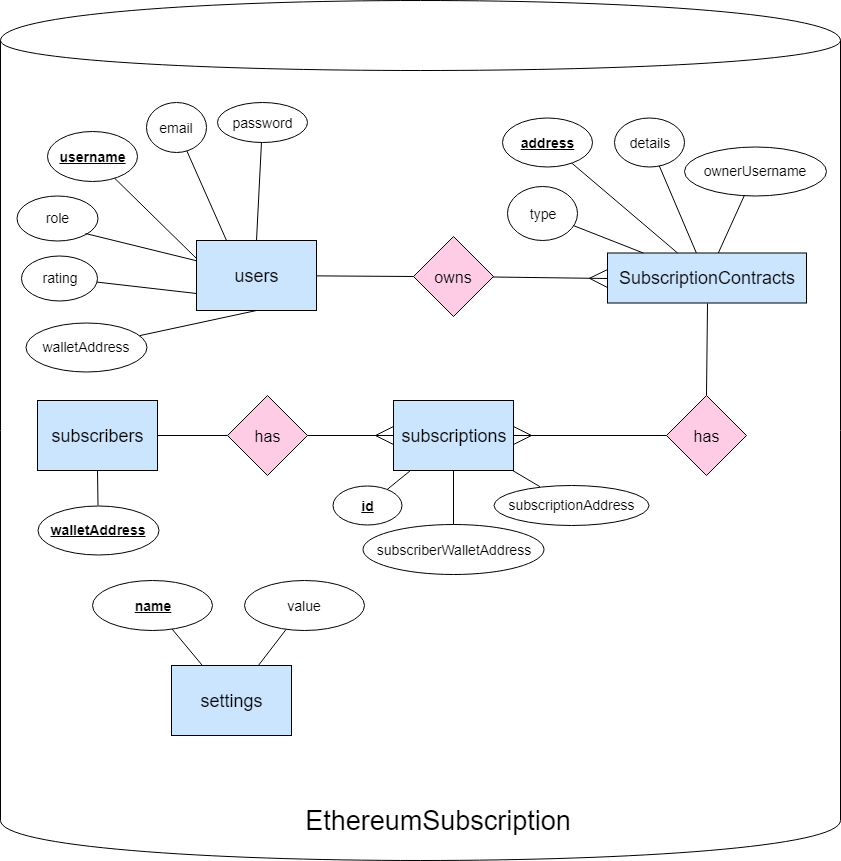
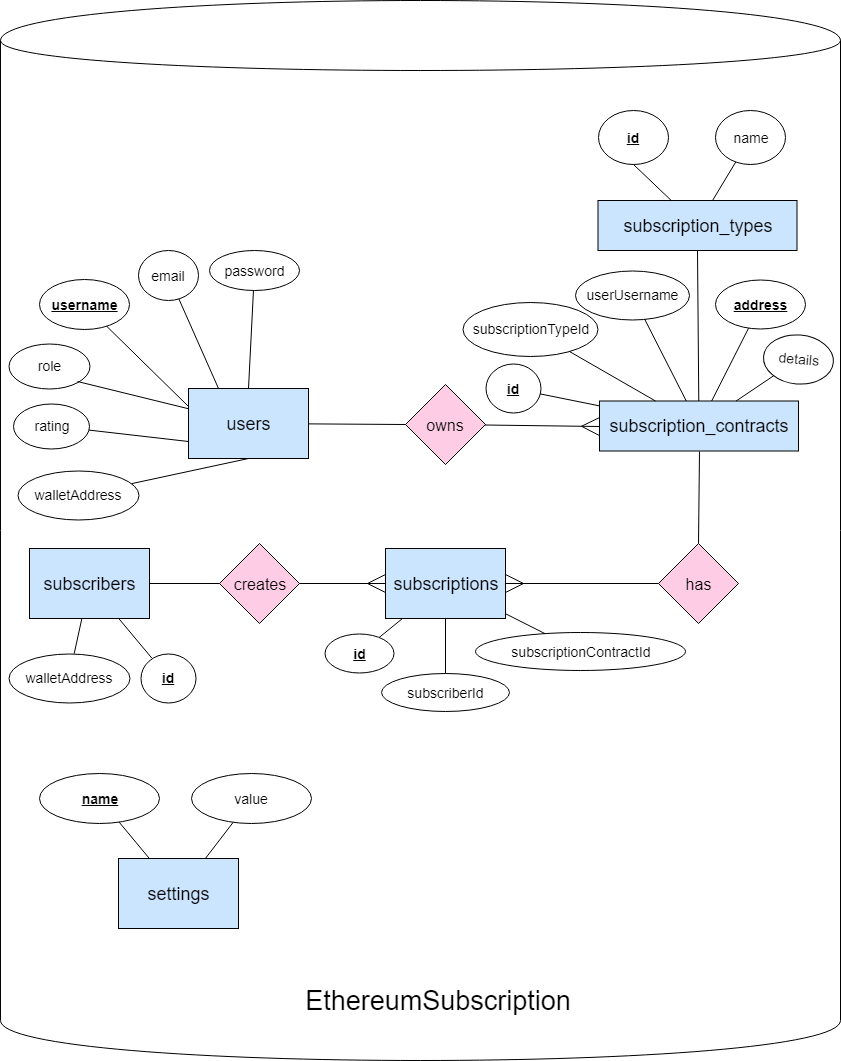
Added models corresponding to the ER diagram along with some default data for each table.

diff --git a/ethereum-subscription/server/services/defaultDatabase.js b/ethereum-subscription/server/services/defaultDatabase.js
@@ -17,7 +17,61 @@ module.exports.loadDefaultUsers = async (sequelize) => {
     ));
 };
 
+module.exports.loadDefaultSubscriptionTypes = async (sequelize) => {
+    return Promise.all(defaultData.subscriptionTypes.map(type =>
+        sequelize.models.subscription_types.create(type)
+    ));
+};
+
+module.exports.loadDefaultSubscriptionContracts = async (sequelize) => {
+    return Promise.all(defaultData.subscriptionContracts.map(contract =>
+        sequelize.models.subscription_types.findOne({where: {name: contract.subscriptionTypeId}})
+            .then(typeEntry => typeEntry.dataValues)
+            .then(type => sequelize.models.subscription_contracts
+                .create(Object.assign({}, contract, {subscriptionTypeId: type.id})))
+    ));
+};
+
+module.exports.loadDefaultSubscribers = async (sequelize) => {
+    return Promise.all(defaultData.subscribers.map(subscriber =>
+        sequelize.models.subscribers.create(subscriber)
+    ));
+};
+
+module.exports.loadDefaultSubscription = async (sequelize) => {
+    let subscriptionContract;
+
+    return Promise.all(defaultData.subscriptions.map(subscription =>
+        sequelize.models.subscription_contracts
+            .findOne({
+                where: {
+                    address: subscription.subscriptionContractAddress
+                }
+            })
+            .then(contractEntry => contractEntry.dataValues)
+            .then(contract => {subscriptionContract = contract;})
+            .then(() => sequelize.models.subscribers
+                .findOne({
+                    where: {
+                        walletAddress: subscription.subscriberWalletAddress
+                    }
+                })
+            )
+            .then(subscriberEntry => subscriberEntry.dataValues)
+            .then(subscriber => sequelize.models.subscriptions
+                .create({
+                    subscriberId: subscriber.id,
+                    subscriptionContractId: subscriptionContract.id
+                })
+            )
+    ));
+};
+
 module.exports.load = async (sequelize) => {
     return module.exports.loadDefaultSettings(sequelize)
-        .then(() => module.exports.loadDefaultUsers(sequelize));
+        .then(() => module.exports.loadDefaultUsers(sequelize))
+        .then(() => module.exports.loadDefaultSubscriptionTypes(sequelize))
+        .then(() => module.exports.loadDefaultSubscriptionContracts(sequelize))
+        .then(() => module.exports.loadDefaultSubscribers(sequelize))
+        .then(() => module.exports.loadDefaultSubscription(sequelize));
 };

diff --git a/ethereum-subscription/server/config/configSequelize.js b/ethereum-subscription/server/config/configSequelize.js
@@ -1,5 +1,4 @@
 const Sequelize = require('sequelize');
-const glob = require('glob');
 const defaultDatabase = require('../services/defaultDatabase');
 
 function createDatabaseIfNotExists(sequelizeOptions, dbName){
@@ -37,7 +36,7 @@ module.exports = async ({
     DATABASE_PASSWORD,
     DATABASE_PORT,
     DATABASE_DIALECT
-}) => {
+}, loadDefaultData = true) => {
     const Op = Sequelize.Op;
     const options = {
         host: HOST,
@@ -61,16 +60,34 @@ module.exports = async ({
     const sequelize = new Sequelize(Object.assign({}, options, {
         database: DATABASE_NAME
     }));
-    const rootPath = require('path').normalize(__dirname + '/../..');
+
+    const Settings = require('../models/settings')(sequelize, Sequelize.DataTypes);
+    const Subscribers = require('../models/subscribers')(sequelize, Sequelize.DataTypes);
+    const SubscriptionTypes = require('../models/subscription_types')(sequelize, Sequelize.DataTypes);
+    const Subscriptions = require('../models/subscriptions')(sequelize, Sequelize.DataTypes);
+    const SubscriptionContracts = require('../models/subscription_contracts')(sequelize, Sequelize.DataTypes);
+    const Users = require('../models/users')(sequelize, Sequelize.DataTypes);
+
+    Users.hasMany(SubscriptionContracts);
+    SubscriptionTypes.hasOne(SubscriptionContracts);
+    SubscriptionContracts.hasMany(Subscriptions);
+    Subscribers.hasMany(Subscriptions);
 
     return createDatabaseIfNotExists(options, DATABASE_NAME)
-        .then(() => glob.sync(rootPath + '/server/models/*.js').map(
-            controllerPath => require(controllerPath)(sequelize, Sequelize.DataTypes)
-        ))
-        .then(Models => Promise.all(Models.map(Model => Model.sync())))
-        .then(() => loadDefaultDatabaseSettings(sequelize))
+        .then(() => Settings.sync())
+        .then(() => Users.sync())
+        .then(() => SubscriptionTypes.sync())
+        .then(() => SubscriptionContracts.sync())
+        .then(() => Subscribers.sync())
+        .then(() => Subscriptions.sync())
         .then(() => {
-            if(!global.isProduction()) return loadDefaultDatabaseUsers(sequelize);
+            if(loadDefaultData){
+                return loadDefaultDatabaseSettings(sequelize);
+            }
+        })
+        .then(() => {
+            if(global.isDevelopment() && loadDefaultData)
+                return loadDefaultDatabaseUsers(sequelize);
         })
         .then(() => sequelize);
 };

diff --git a/ethereum-subscription/scripts.js b/ethereum-subscription/scripts.js
@@ -29,31 +29,35 @@ if (process.argv.length < 3) {
 }
 
 function removeDatabase(sequelize) {
-    return Promise.all(Object.keys(sequelize.models)
-        .map(modelKey => sequelize.query(`DROP TABLE ${modelKey}`)));
+    return sequelize.query(`DROP TABLE settings`)
+        .then(() => sequelize.query(`DROP TABLE subscriptions`))
+        .then(() => sequelize.query(`DROP TABLE subscribers`))
+        .then(() => sequelize.query(`DROP TABLE subscription_contracts`))
+        .then(() => sequelize.query(`DROP TABLE subscription_types`))
+        .then(() => sequelize.query(`DROP TABLE users`));
 }
 
 function loadDefaultDatabase(sequelize) {
-    return Promise.all(Object.keys(sequelize.models)
-        .map(modelKey => sequelize.query(`DELETE FROM ${modelKey}`)))
+    return removeDatabase(sequelize)
+        .then(() => configSequelize(serverSettings, false))
         .then(() => defaultDatabase.load(sequelize));
 }
 
-configSequelize(serverSettings)
+configSequelize(serverSettings, false)
     .then(sequelize => {
         switch (process.argv[2]) {
-            case arguments.removeDatabase:
-                return removeDatabase(sequelize);
-            case arguments.defaultDatabase:
-                return loadDefaultDatabase(sequelize);
-            case 'help':
-                printHelp();
-                break;
-            default:
-                console.error(`Error: Unexpected argument ${process.argv[2]}`);
-                printHelp();
-                process.exit(1);
-                break;
+        case arguments.removeDatabase:
+            return removeDatabase(sequelize);
+        case arguments.defaultDatabase:
+            return loadDefaultDatabase(sequelize);
+        case 'help':
+            printHelp();
+            break;
+        default:
+            console.error(`Error: Unexpected argument ${process.argv[2]}`);
+            printHelp();
+            process.exit(1);
+            break;
         }
     })
     .then(() => process.exit(0))

diff --git a/ethereum-subscription/server/models/subscription_contracts.js b/ethereum-subscription/server/models/subscription_contracts.js
@@ -1,0 +1,45 @@
+module.exports = (sequelize, DataTypes) => (
+    sequelize.define('subscription_contracts', {
+        id: {
+            type: DataTypes.INTEGER,
+            primaryKey: true,
+            autoIncrement: true,
+        },
+        address: {
+            type: DataTypes.STRING,
+            allowNull: false,
+            unique: true,
+            validate: {
+                is: /0x[a-zA-Z0-9]+/g,
+                len: [42, 42]
+            }
+        },
+        details: {
+            type: DataTypes.STRING,
+            allowNull: true,
+            validate: {
+                len: [0, 2048]
+            }
+        },
+        userUsername: {
+            type: DataTypes.STRING,
+            allowNull: false,
+            validate: {
+                is: /^[a-zA-Z0-9]+([_-]?[a-zA-Z0-9])*$/g,
+                len: [2, 64]
+            },
+            references: {
+                model: 'users',
+                key: 'username'
+            }
+        },
+        subscriptionTypeId: {
+            type: DataTypes.INTEGER,
+            allowNull: false,
+            references: {
+                model: 'subscription_types',
+                key: 'id'
+            }
+        },
+    })
+);

diff --git a/ethereum-subscription/services/defaultData.js b/ethereum-subscription/services/defaultData.js
@@ -17,6 +17,34 @@ module.exports.settings = {
     siteTitle: 'Ethereum Subscriptions'
 };
 
+module.exports.subscriptionTypes = [
+    {
+        name: 'Gym Membership'
+    }
+];
+
+module.exports.subscriptionContracts = [
+    {
+        address: '0x3cbc16e2c379a1584ec821ac5720511ddbf355e0',
+        userUsername: 'smnrkssn',
+        subscriptionTypeId: 'Gym Membership',
+        details: 'Random details'
+    }
+];
+
+module.exports.subscribers = [
+    {
+        walletAddress: '0xB736a9bACC8855531AeF429735D477D4b5A4D208'
+    }
+];
+
+module.exports.subscriptions = [
+    {
+        subscriberWalletAddress: '0xB736a9bACC8855531AeF429735D477D4b5A4D208',
+        subscriptionContractAddress: '0x3cbc16e2c379a1584ec821ac5720511ddbf355e0'
+    }
+];
+
 module.exports.users = [
     {
         username: 'admin',

diff --git a/ethereum-subscription/server/models/subscriptions.js b/ethereum-subscription/server/models/subscriptions.js
@@ -1,0 +1,25 @@
+module.exports = (sequelize, DataTypes) => (
+    sequelize.define('subscriptions', {
+        id: {
+            type: DataTypes.INTEGER,
+            primaryKey: true,
+            autoIncrement: true,
+        },
+        subscriptionContractId: {
+            type: DataTypes.INTEGER,
+            allowNull: false,
+            references: {
+                model: 'subscription_contracts',
+                key: 'id'
+            }
+        },
+        subscriberId: {
+            type: DataTypes.INTEGER,
+            allowNull: false,
+            references: {
+                model: 'subscribers',
+                key: 'id'
+            }
+        },
+    })
+);

diff --git a/ethereum-subscription/server/models/subscribers.js b/ethereum-subscription/server/models/subscribers.js
@@ -1,0 +1,19 @@
+module.exports = (sequelize, DataTypes) => (
+    sequelize.define('subscribers', {
+        id: {
+            type: DataTypes.INTEGER,
+            primaryKey: true,
+            autoIncrement: true,
+        },
+        walletAddress: {
+            type: DataTypes.STRING,
+            primaryKey: true,
+            allowNull: false,
+            unique: true,
+            validate: {
+                is: /0x[a-zA-Z0-9]+/g,
+                len: [42, 42]
+            },
+        },
+    })
+);

diff --git a/ethereum-subscription/server/models/subscription_types.js b/ethereum-subscription/server/models/subscription_types.js
@@ -1,0 +1,17 @@
+module.exports = (sequelize, DataTypes) => (
+    sequelize.define('subscription_types', {
+        id: {
+            type: DataTypes.INTEGER,
+            primaryKey: true,
+            autoIncrement: true,
+        },
+        name: {
+            type: DataTypes.STRING,
+            allowNull: false,
+            unique: true,
+            validate: {
+                len: [0, 64]
+            }
+        },
+    })
+);
